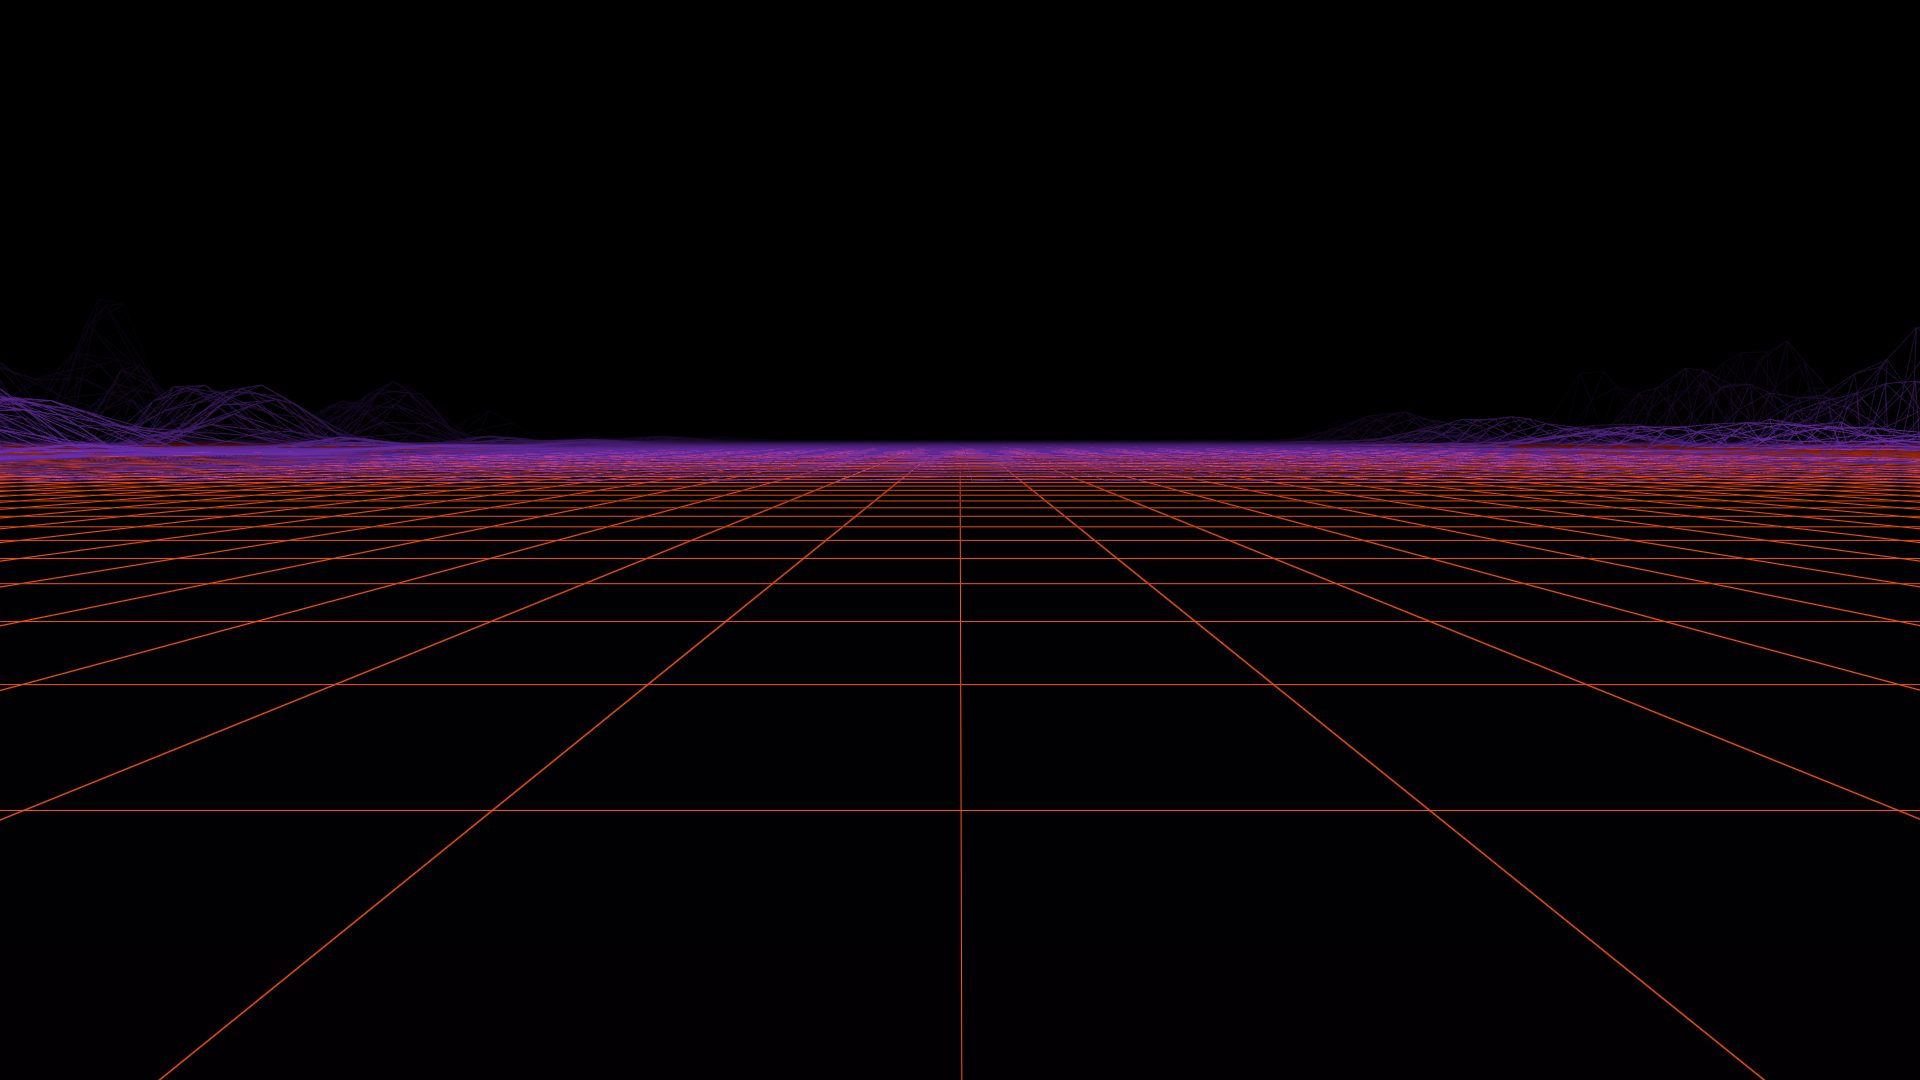
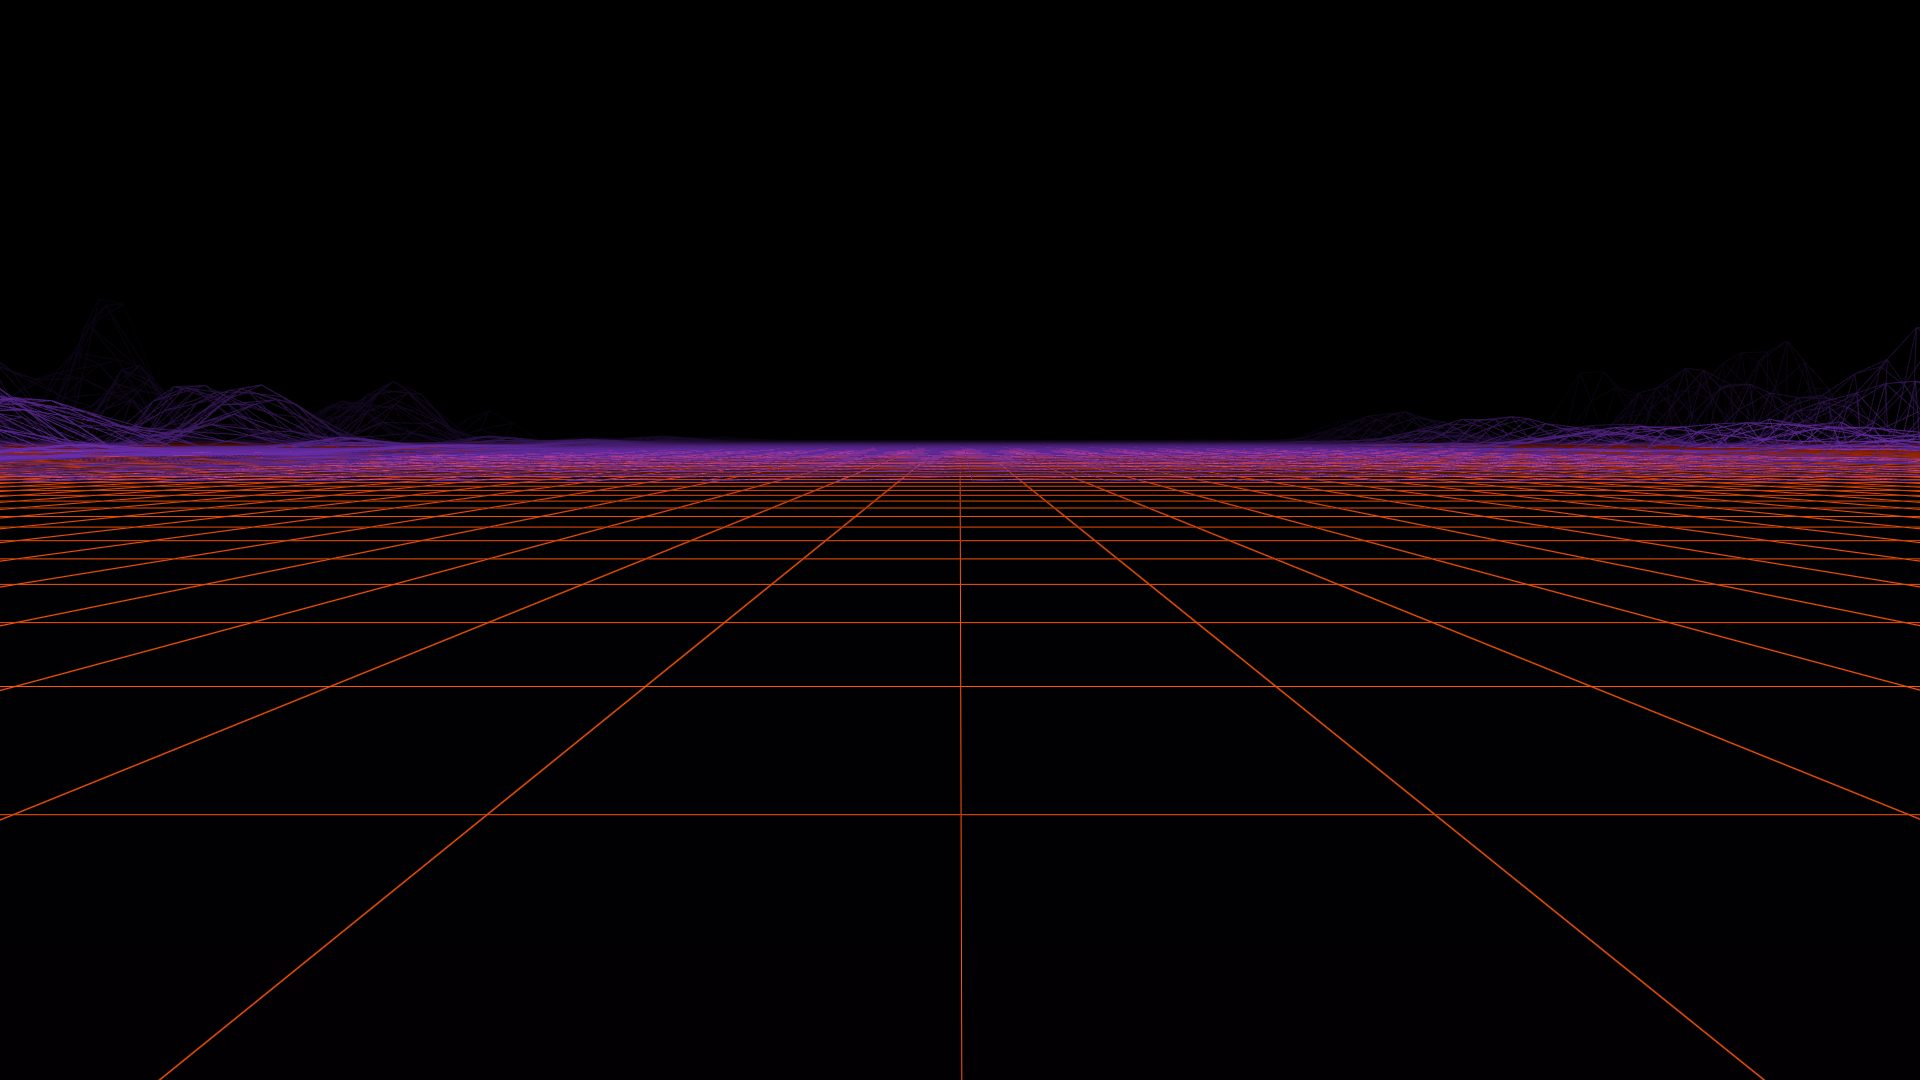
feat: apply scanlines only to the sun, not to gridlines

diff --git a/packages/ui/src/app/components/backdrop/BandedSun.tsx b/packages/ui/src/app/components/backdrop/BandedSun.tsx
@@ -4,6 +4,8 @@ import { type Color } from "three";
 interface BandedSunProps {
   top: Color;
   bottom: Color;
+  // CRT scanline strength (0–1); see `palette.scanlineAlpha`.
+  scanlineAlpha: number;
 }
 
 const VERTEX = /* glsl */ `
@@ -15,12 +17,19 @@ const VERTEX = /* glsl */ `
 `;
 
 // Vertical gradient with the signature retro twist: horizontal gaps carved into
-// the lower half that widen toward the bottom, so the sun reads as banded.
+// the lower half that widen toward the bottom, so the sun reads as banded. CRT
+// scanlines are baked in here (rather than as a full-screen overlay) so they
+// fall only on the sun, leaving the grid and terrain clean.
 const FRAGMENT = /* glsl */ `
   precision highp float;
   varying vec2 vUv;
   uniform vec3 uTop;
   uniform vec3 uBottom;
+  uniform float uScanline;
+
+  // Number of fine scanline cycles across the sun's height. Anchored to the
+  // sun's UV rather than screen pixels so the count holds on any display.
+  const float SCANLINE_COUNT = 60.0;
 
   void main() {
     float y = vUv.y; // 0 at bottom, 1 at top
@@ -34,6 +43,14 @@ const FRAGMENT = /* glsl */ `
       alpha = step(gap, stripe);
     }
     if (alpha < 0.5) discard;
+
+    // Fine CRT scanlines over the sun. Keyed to the sun's UV (not screen
+    // pixels): a screen-pixel cadence collapses to a flat tint on HiDPI
+    // displays, whereas a fixed UV count stays visible everywhere. Each cycle
+    // darkens its top third, echoing the old overlay's 1-in-3 cadence.
+    float scan = step(2.0 / 3.0, fract(vUv.y * SCANLINE_COUNT)) * uScanline;
+    col *= 1.0 - scan;
+
     gl_FragColor = vec4(col, 1.0);
   }
 `;
@@ -41,10 +58,14 @@ const FRAGMENT = /* glsl */ `
 // The classic banded synthwave sun, mounted only when the user enables it. Sits
 // in the distance behind the terrain valley; intentionally not fogged so it
 // stays the vivid focal point.
-export function BandedSun({ top, bottom }: BandedSunProps) {
+export function BandedSun({ top, bottom, scanlineAlpha }: BandedSunProps) {
   const uniforms = useMemo(
-    () => ({ uTop: { value: top.clone() }, uBottom: { value: bottom.clone() } }),
-    [top, bottom],
+    () => ({
+      uTop: { value: top.clone() },
+      uBottom: { value: bottom.clone() },
+      uScanline: { value: scanlineAlpha },
+    }),
+    [top, bottom, scanlineAlpha],
   );
 
   return (

diff --git a/packages/ui/src/app/components/backdrop/palette.ts b/packages/ui/src/app/components/backdrop/palette.ts
@@ -2,8 +2,9 @@ import { Color } from "three";
 
 // The synthwave scene's colors are derived from the site theme's `--ttc-*`
 // custom properties (declared in `styles/theme.scss`), keeping the theme the
-// single source of color truth. Only the solid hex tokens are read here;
-// `--ttc-grid`/`--ttc-scanline` are rgba and stay in the CSS layers.
+// single source of color truth. The solid hex tokens are read as colors;
+// `--ttc-grid` is rgba and stays in the CSS layers, while `--ttc-scanline`'s
+// alpha is read here to drive the CRT lines now baked into the sun shader.
 export interface ScenePalette {
   // Neon grid lines closest to the camera.
   gridNear: Color;
@@ -23,6 +24,10 @@ export interface ScenePalette {
   bgTop: Color;
   bgMid: Color;
   bgBottom: Color;
+  // Strength of the CRT scanlines drawn over the sun (0–1), from the alpha of
+  // the `--ttc-scanline` token. The scanlines live in the sun shader so they
+  // never touch the grid or terrain.
+  scanlineAlpha: number;
 }
 
 function cssColor(name: string, fallback: string): Color {
@@ -35,6 +40,21 @@ function cssColor(name: string, fallback: string): Color {
   } catch {
     return new Color(fallback);
   }
+}
+
+// Reads the alpha component of an `rgb()/rgba()` custom property (the only
+// channel the sun's scanlines need). `getComputedStyle` resolves the token to a
+// concrete `rgba(r, g, b, a)` string; a missing alpha means fully opaque.
+function cssAlpha(name: string, fallback: number): number {
+  const root = document.documentElement;
+  const raw = getComputedStyle(root).getPropertyValue(name).trim();
+  const inner = raw.match(/rgba?\(([^)]+)\)/i)?.[1];
+  if (!inner) {
+    return fallback;
+  }
+  const parts = inner.split(",").map((part) => Number.parseFloat(part));
+  const alpha = parts.length >= 4 ? parts[3] : 1;
+  return alpha !== undefined && Number.isFinite(alpha) ? alpha : fallback;
 }
 
 // Reads the live theme palette. Call once on the client (after mount) — it
@@ -53,5 +73,6 @@ export function readScenePalette(): ScenePalette {
     bgTop: cssColor("--ttc-bg", "#050108"),
     bgMid: cssColor("--ttc-bg-2", "#0a0414"),
     bgBottom: new Color("#14061f"),
+    scanlineAlpha: cssAlpha("--ttc-scanline", 0.4),
   };
 }

diff --git a/packages/ui/src/app/components/Backdrop.tsx b/packages/ui/src/app/components/Backdrop.tsx
@@ -23,11 +23,12 @@ function supportsWebGL(): boolean {
   }
 }
 
-// Full-viewport atmosphere behind all page content. The cheap base layers (the
-// background gradient and CRT scanlines) always render for an instant first
-// paint; on top of them we mount the animated WebGL synthwave scene when the
-// browser supports WebGL and the user hasn't asked for reduced motion. Anyone
-// else gets the static CSS grid fallback, and `three` is never downloaded.
+// Full-viewport atmosphere behind all page content. A cheap background gradient
+// always renders for an instant first paint; on top of it we mount the animated
+// WebGL synthwave scene when the browser supports WebGL and the user hasn't
+// asked for reduced motion. Anyone else gets the static CSS grid fallback, and
+// `three` is never downloaded. The CRT scanlines live in the sun shader (see
+// `BandedSun`), so they fall only on the sun rather than the whole scene.
 export function Backdrop() {
   // Start with the fallback so the first paint never blocks on capability
   // checks; promote to the WebGL scene from an effect (client-only).
@@ -52,7 +53,6 @@ export function Backdrop() {
       ) : (
         <CssBackdrop />
       )}
-      <div className={styles.scanlines} />
     </div>
   );
 }

diff --git a/packages/ui/src/app/components/Backdrop.module.scss b/packages/ui/src/app/components/Backdrop.module.scss
@@ -2,7 +2,8 @@
 
 // Sits behind the app shell (which is positioned at a higher stacking level).
 // Fixed and non-interactive. Deep void with a sunset gradient; the grid/terrain
-// (CSS fallback or WebGL scene) and scanlines are layered on top.
+// (CSS fallback or WebGL scene) is layered on top. The CRT scanlines are baked
+// into the sun itself (see `backdrop/BandedSun`), not overlaid here.
 .backdrop {
   position: fixed;
   inset: 0;
@@ -15,18 +16,4 @@
     #0a0414 55%,
     #14061f 100%
   );
-}
-
-// Faint CRT scanlines layered over everything else in the backdrop.
-.scanlines {
-  position: absolute;
-  inset: 0;
-  background: repeating-linear-gradient(
-    to bottom,
-    transparent 0,
-    transparent 2px,
-    var(--ttc-scanline) 2px,
-    var(--ttc-scanline) 3px
-  );
-  mix-blend-mode: multiply;
 }

diff --git a/packages/ui/src/app/components/backdrop/CssBackdrop.tsx b/packages/ui/src/app/components/backdrop/CssBackdrop.tsx
@@ -18,8 +18,8 @@ import styles from "./CssBackdrop.module.scss";
 //
 // Used both as the instant Suspense fallback while the WebGL scene's chunk loads
 // and as the permanent fallback when WebGL is unavailable or the user prefers
-// reduced motion. Purely decorative; the CRT scanlines are applied over it by
-// `Backdrop`.
+// reduced motion. Purely decorative; the sun's CRT scanlines come baked into the
+// `backdropStill` capture, so the fallback matches the live scene.
 export function CssBackdrop() {
   const sunEnabled = useAppSettings((s) => s.sunEnabled);
   const still = sunEnabled ? backdropStill : backdropStillNoSun;

diff --git a/packages/ui/src/app/components/backdrop/SynthwaveScene.tsx b/packages/ui/src/app/components/backdrop/SynthwaveScene.tsx
@@ -51,7 +51,11 @@ export default function SynthwaveScene() {
       <GridFloor near={palette.gridNear} far={palette.gridFar} />
       <WireframeTerrain color={palette.terrain} />
       {sunEnabled && (
-        <BandedSun top={palette.sunTop} bottom={palette.sunBottom} />
+        <BandedSun
+          top={palette.sunTop}
+          bottom={palette.sunBottom}
+          scanlineAlpha={palette.scanlineAlpha}
+        />
       )}
     </Canvas>
   );
